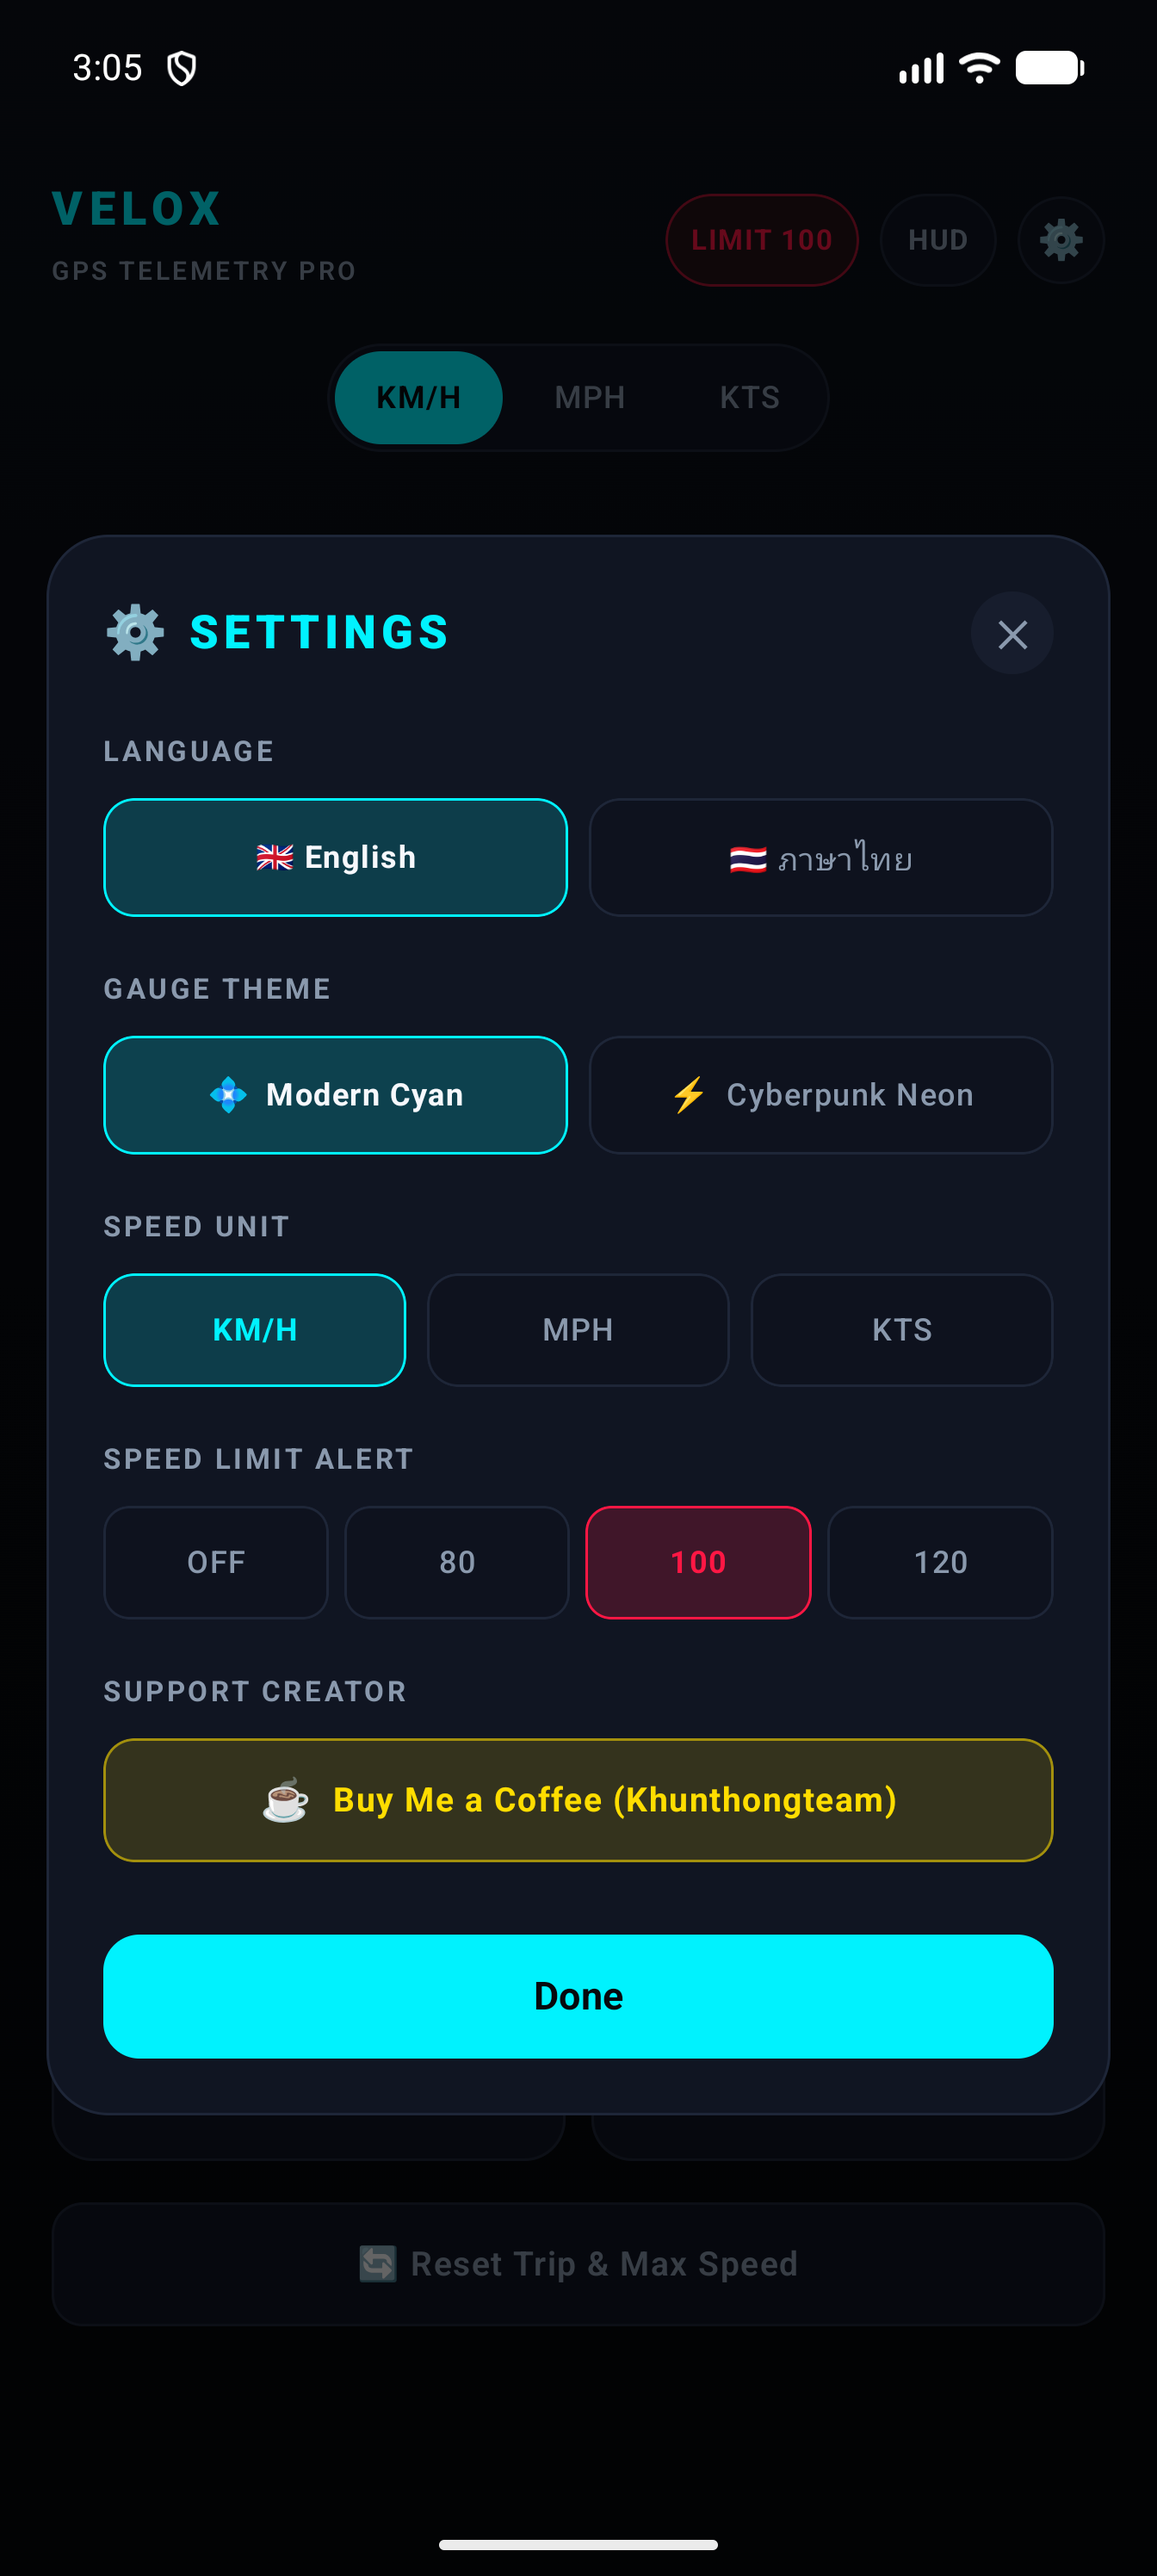
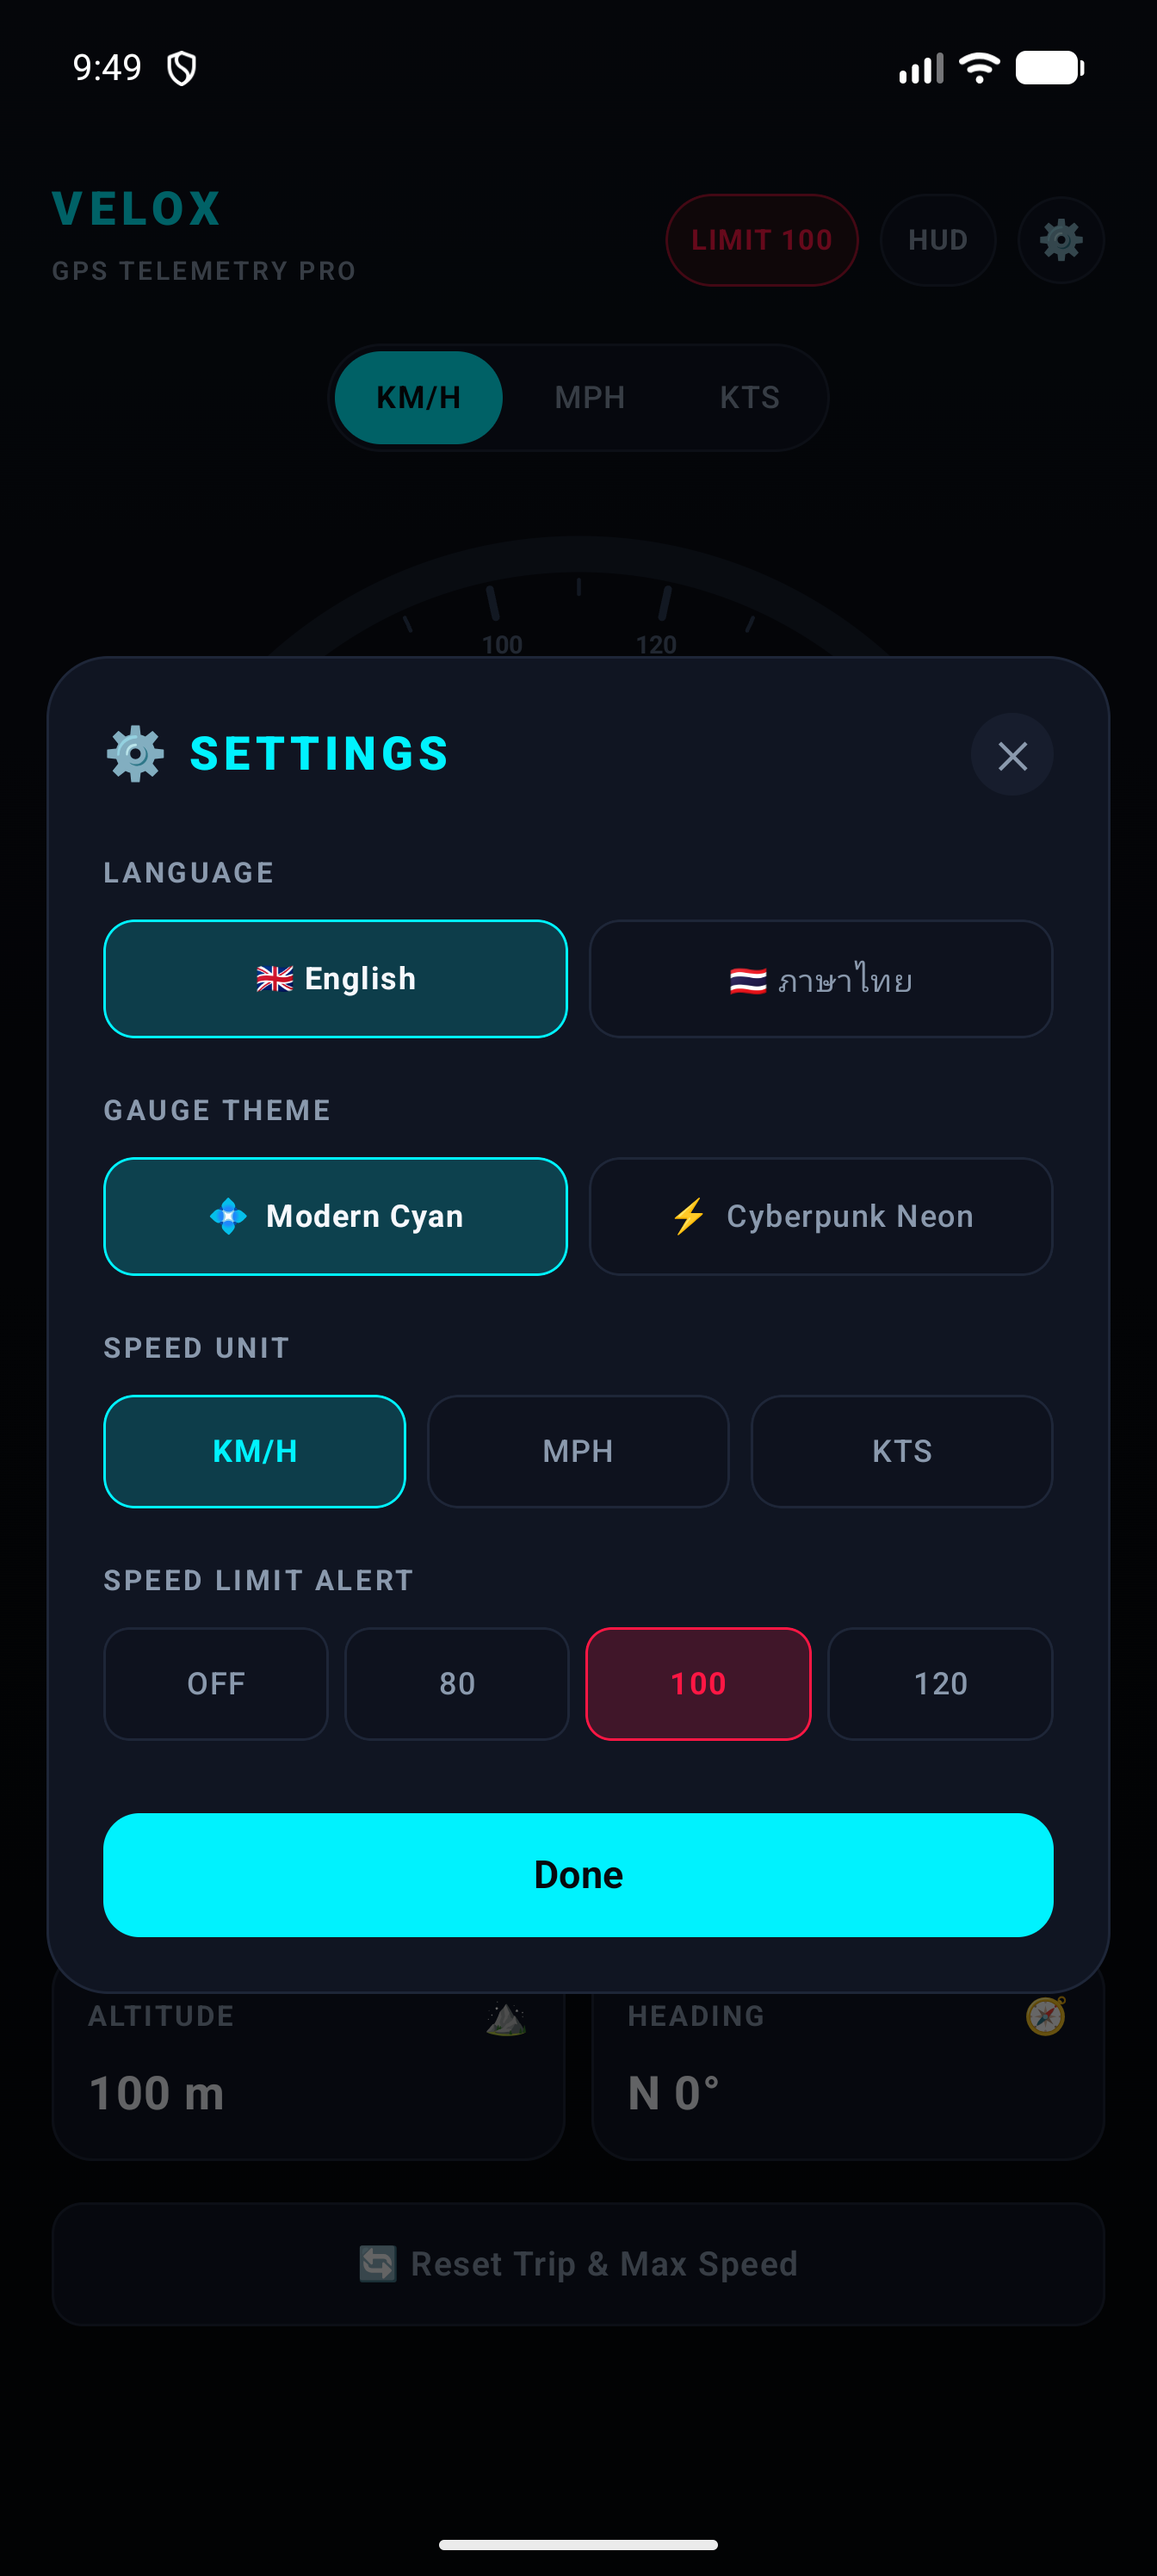
fix(policy): remove Buy Me a Coffee to comply with Google Play Payments Policy (v1.0.6 build 7)

diff --git a/app/src/main/java/com/titanforge/velox/MainActivity.kt b/app/src/main/java/com/titanforge/velox/MainActivity.kt
@@ -2,9 +2,7 @@ package com.titanforge.velox
 
 import android.Manifest
 import android.content.Context
-import android.content.Intent
 import android.content.pm.PackageManager
-import android.net.Uri
 import android.content.res.Configuration
 import android.graphics.Paint
 import android.graphics.Typeface
@@ -1011,50 +1009,6 @@ private fun SettingsDialog(
                                 }
                             }
                         }
-
-                        // Section 5: Buy Me a Coffee (Support Creator)
-                        Spacer(Modifier.height(if (isLandscape) 10.dp else 16.dp))
-                        Text(
-                            text = if (language == AppLanguage.EN) "SUPPORT CREATOR" else "สนับสนุนผู้พัฒนา",
-                            color = TextDim,
-                            fontSize = 11.sp,
-                            fontWeight = FontWeight.Bold,
-                            letterSpacing = 1.2.sp,
-                        )
-                        Spacer(Modifier.height(6.dp))
-                        val ctx = LocalContext.current
-                        Box(
-                            modifier = Modifier
-                                .fillMaxWidth()
-                                .clip(RoundedCornerShape(12.dp))
-                                .background(Color(0xFFFFDD00).copy(alpha = 0.15f))
-                                .border(1.dp, Color(0xFFFFDD00).copy(alpha = 0.55f), RoundedCornerShape(12.dp))
-                                .clickable {
-                                    val intent = Intent(
-                                        Intent.ACTION_VIEW,
-                                        Uri.parse("https://buymeacoffee.com/khunthongteam"),
-                                    ).apply {
-                                        addFlags(Intent.FLAG_ACTIVITY_NEW_TASK)
-                                    }
-                                    ctx.startActivity(intent)
-                                }
-                                .padding(vertical = if (isLandscape) 9.dp else 12.dp, horizontal = 12.dp),
-                            contentAlignment = Alignment.Center,
-                        ) {
-                            Row(
-                                verticalAlignment = Alignment.CenterVertically,
-                                horizontalArrangement = Arrangement.spacedBy(8.dp),
-                            ) {
-                                Text(text = "☕", fontSize = 16.sp)
-                                Text(
-                                    text = if (language == AppLanguage.EN) "Buy Me a Coffee (Khunthongteam)" else "เลี้ยงกาแฟ (Khunthongteam)",
-                                    color = Color(0xFFFFDD00),
-                                    fontSize = 13.sp,
-                                    fontWeight = FontWeight.Bold,
-                                )
-                            }
-                        }
-
                         Spacer(Modifier.height(if (isLandscape) 6.dp else 14.dp))
                     }
 
